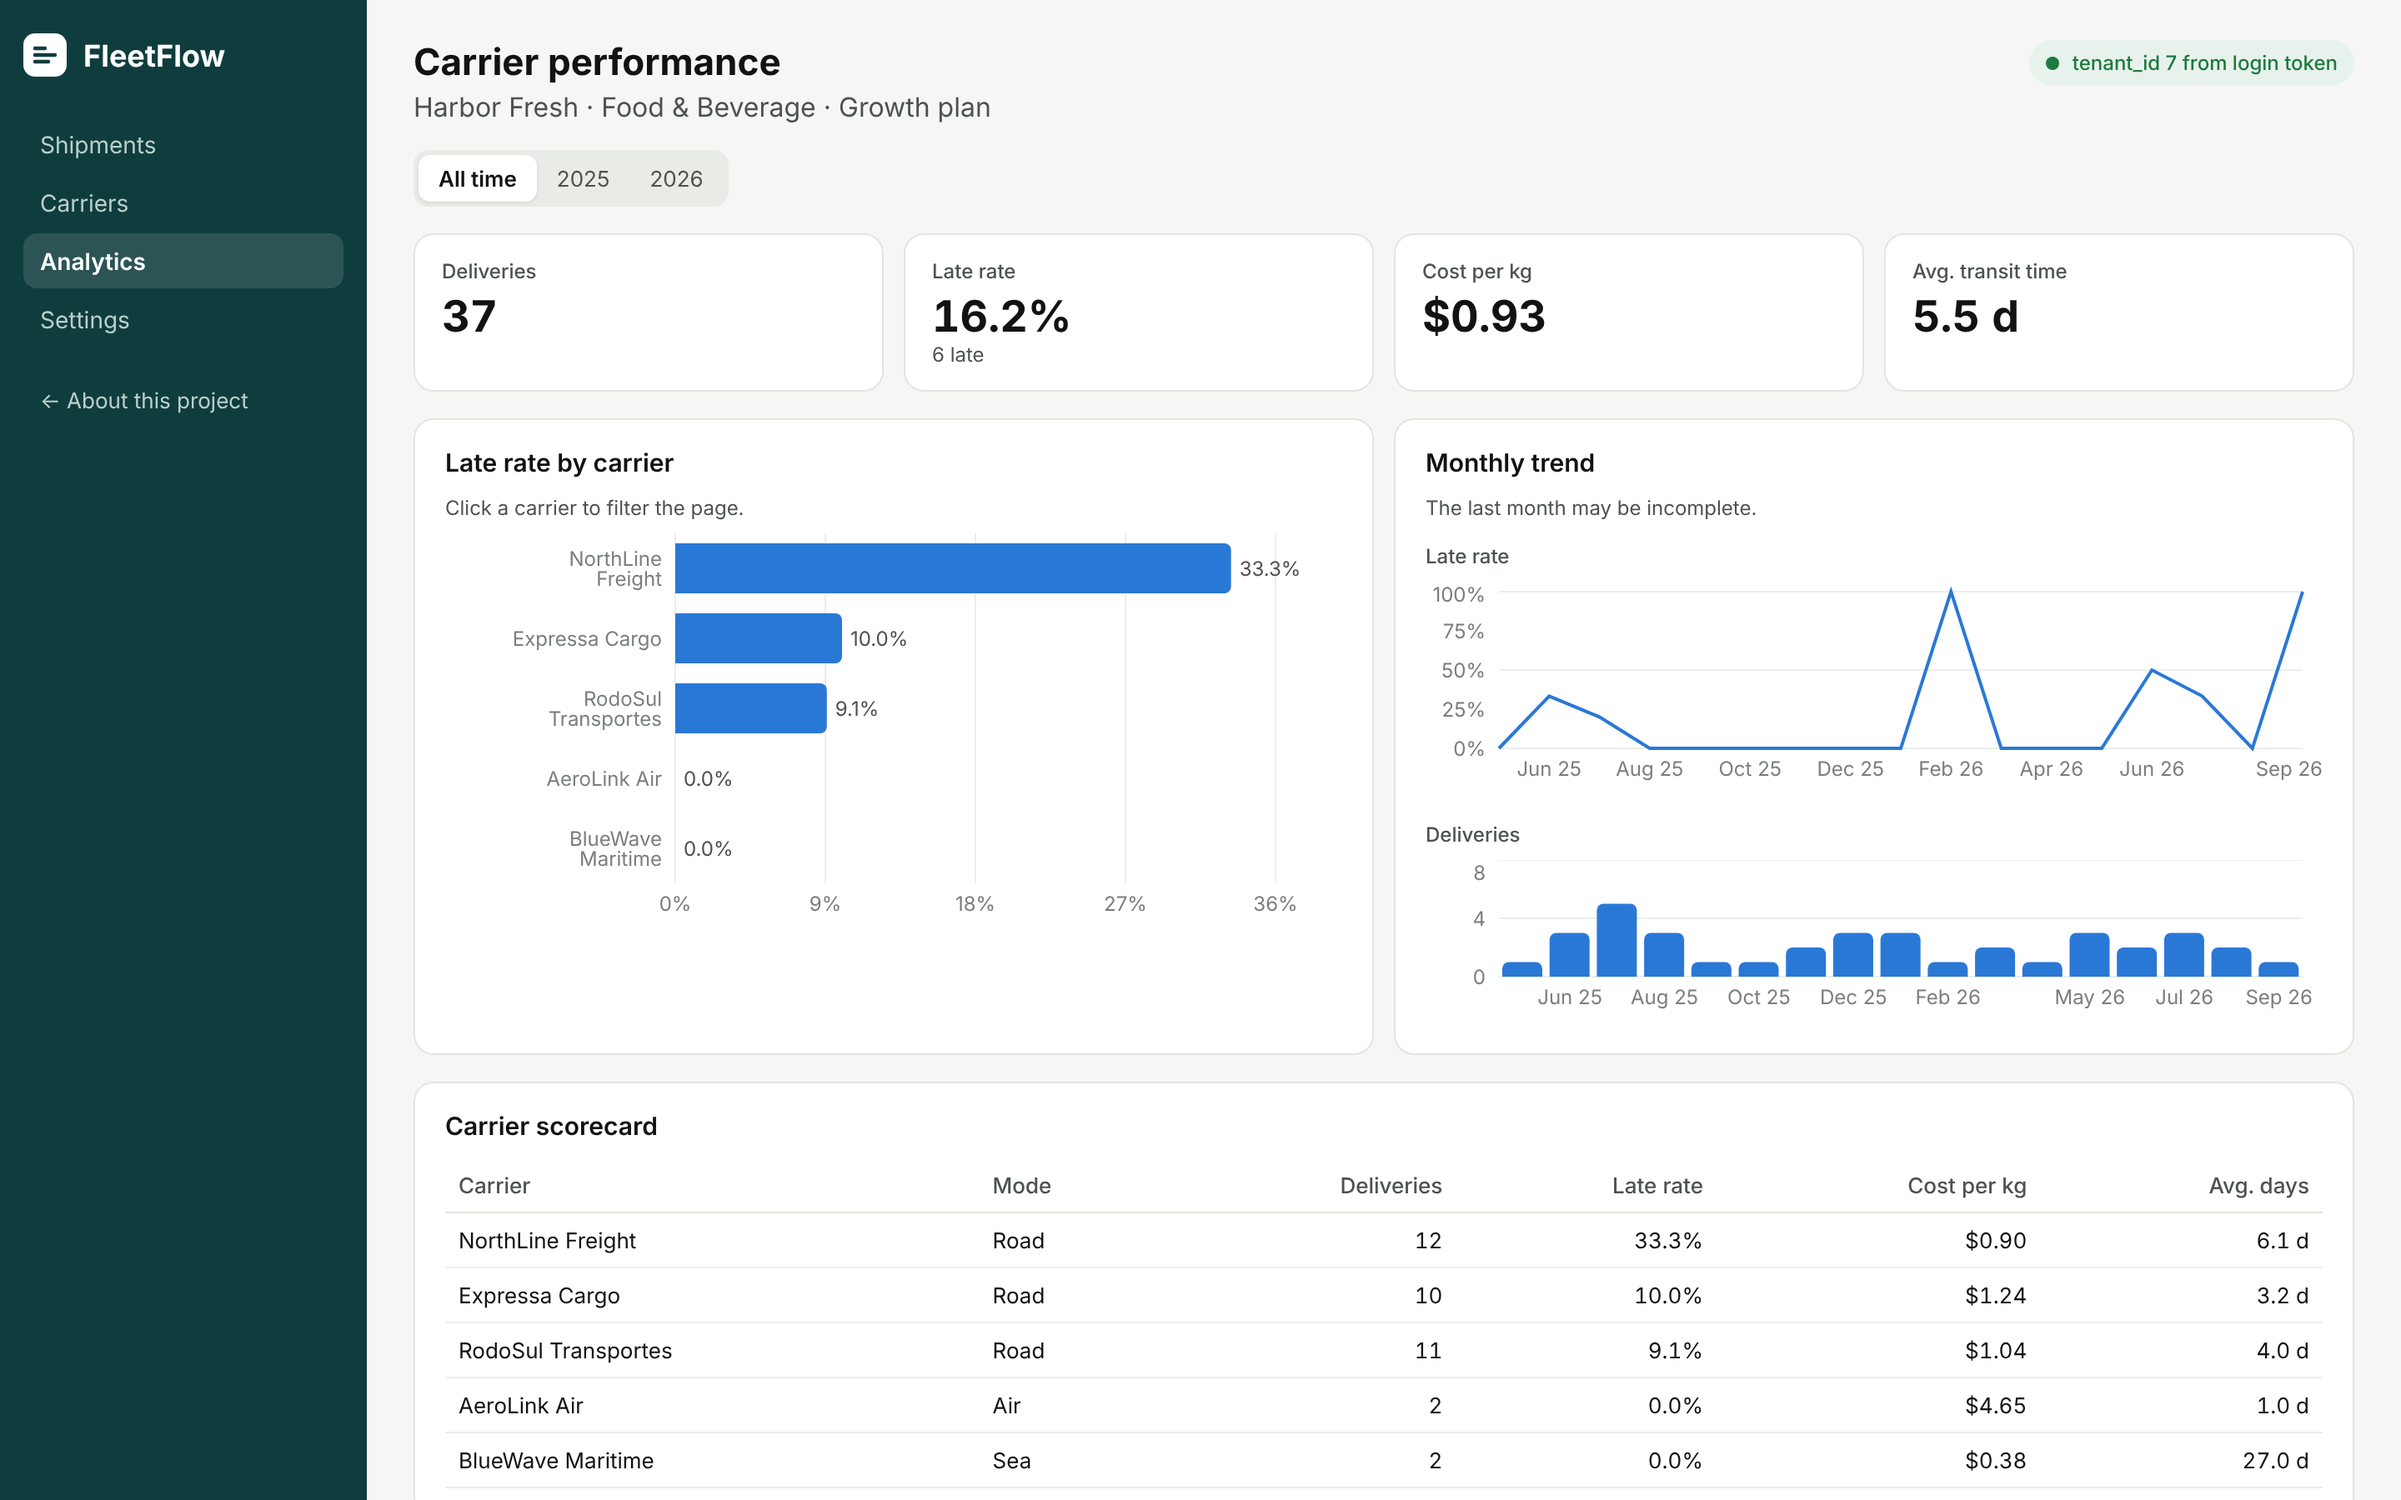
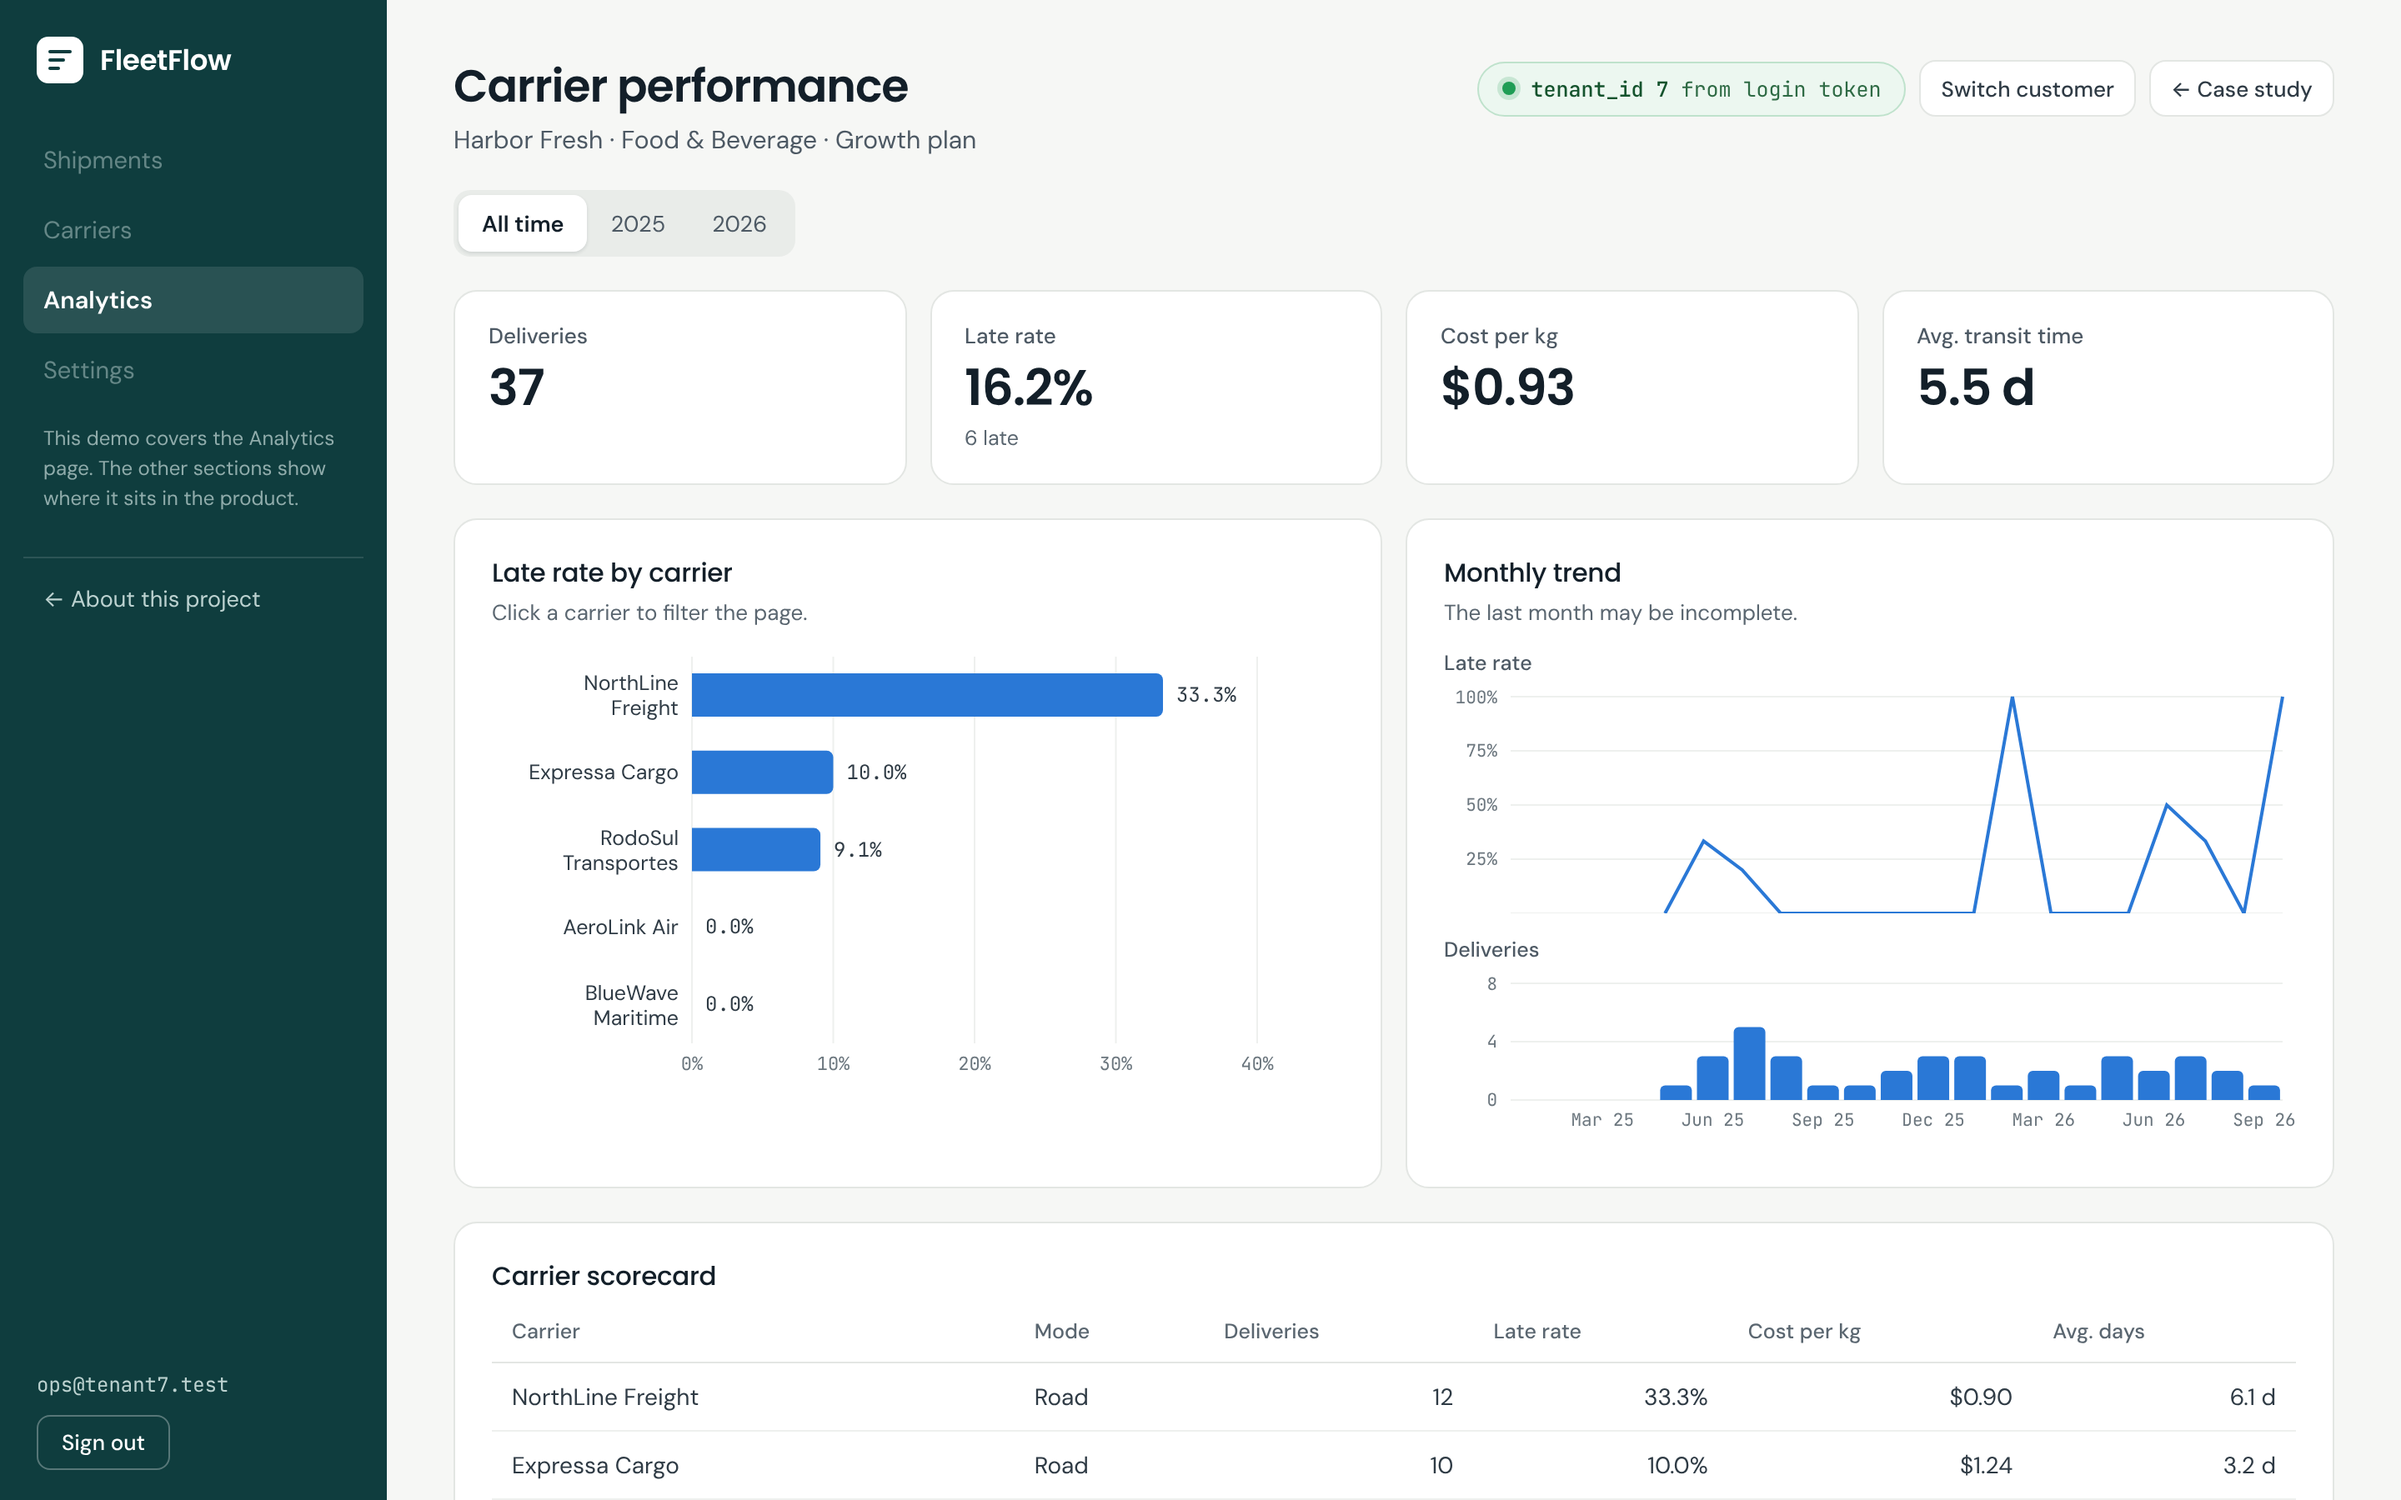
Make the case study self-contained
Remove the success-criteria scoreboard, the deferred executive dashboard
criterion and the roadmap section, so the page presents the PoC as a
finished piece. Refresh the hero screenshots with the new dashboard design.

Claude-Session: https://claude.ai/code/session_01Nik49F6jDDU4GLT7pApr7H

diff --git a/src/landing/Landing.jsx b/src/landing/Landing.jsx
@@ -1,4 +1,4 @@
-import { ai, carriers, criteria, decisions, links, next, pains, sisense, steps, why } from './content.js'
+import { ai, carriers, criteria, decisions, links, pains, sisense, steps, why } from './content.js'
 import './landing.css'
 
 const BAR_MAX = 45
@@ -70,7 +70,6 @@ export default function Landing() {
             <div><dt>tenants</dt><dd>40</dd></div>
             <div><dt>shipments</dt><dd>1,558</dd></div>
             <div><dt>tables</dt><dd>6</dd></div>
-            <div><dt>success criteria met</dt><dd>4 <span>of 5</span></dd></div>
           </dl>
         </section>
 
@@ -107,14 +106,14 @@ export default function Landing() {
               <div className="lp-split lp-criteria-block">
                 <div className="lp-split-left">
                   <h3 className="lp-h3">PoC success criteria</h3>
-                  <p className="lp-mono-sub">Agreed before building · 4 of 5 met</p>
+                  <p className="lp-mono-sub">Agreed before building · all met</p>
                 </div>
                 <ul className="lp-split-right lp-criteria">
                   {criteria.map(c => (
                     <li key={c.t}>
-                      <span className={`lp-status ${c.done ? 'met' : ''}`}>
-                        <span aria-hidden="true">{c.done ? '✓' : '○'}</span>
-                        {c.done ? 'Met' : 'Next'}
+                      <span className="lp-status met">
+                        <span aria-hidden="true">✓</span>
+                        Met
                       </span>
                       <span>
                         <strong>{c.t}.</strong> <span className="lp-muted">{c.d}</span>
@@ -238,6 +237,7 @@ export default function Landing() {
         <Section
           id="sisense"
           eyebrow="08 — Translation"
+          last
           title="How this maps to Sisense"
           wide={
             <div className="lp-table-card">
@@ -261,19 +261,6 @@ export default function Landing() {
           }
         />
 
-        <Section id="next" eyebrow="09 — Roadmap" title="What is next" last>
-          <ol className="lp-next">
-            {next.map(x => {
-              const [lead, rest] = splitLead(x)
-              return (
-                <li key={x}>
-                  <span className="lp-arrow" aria-hidden="true">→</span>
-                  <span><strong>{lead}</strong> <span className="lp-muted">{rest}</span></span>
-                </li>
-              )
-            })}
-          </ol>
-        </Section>
       </main>
 
       <footer className="lp-footer">
@@ -324,11 +311,4 @@ function Section({ id, eyebrow, title, aside, wide, children, last }) {
 function withCode(text) {
   const m = text.match(/^(fact_shipments|kpi_carrier_month)(.*)$/)
   return m ? <><code>{m[1]}</code>{m[2]}</> : text
-}
-
-function splitLead(text) {
-  const i = text.indexOf(': ')
-  if (i > -1) return [text.slice(0, i + 1), text.slice(i + 2)]
-  const j = text.search(/ (on the|instead of) /)
-  return j > -1 ? [text.slice(0, j), text.slice(j + 1)] : [text, '']
 }

diff --git a/src/landing/content.js b/src/landing/content.js
@@ -18,17 +18,16 @@ export const pains = [
 ]
 
 export const criteria = [
-  { t: 'Tenant isolation', d: 'The same dashboard shows each customer only its own rows, driven by the login.', done: true },
-  { t: 'Operational dashboard', d: 'Late rate, cost per kg, transit time and carrier ranking, with filters.', done: true },
-  { t: 'Embedded in the product', d: 'Running inside a React app styled as FleetFlow.', done: true },
-  { t: 'One actionable insight', d: 'Found in the data, not assumed upfront.', done: true },
-  { t: 'Executive dashboard', d: 'MRR, churn and adoption across all tenants, for FleetFlow leadership.', done: false },
+  { t: 'Tenant isolation', d: 'The same dashboard shows each customer only its own rows, driven by the login.' },
+  { t: 'Operational dashboard', d: 'Late rate, cost per kg, transit time and carrier ranking, with filters.' },
+  { t: 'Embedded in the product', d: 'Running inside a React app styled as FleetFlow.' },
+  { t: 'One actionable insight', d: 'Found in the data, not assumed upfront.' },
 ]
 
 export const steps = [
   {
     n: '01', t: 'Discovery',
-    did: 'Wrote a one-page discovery summary: the company, the pain, four personas and five success criteria, agreed before building anything.',
+    did: 'Wrote a one-page discovery summary: the company, the pain, four personas and four success criteria, agreed before building anything.',
     concept: 'Success criteria first. A PoC without them never ends.',
     call: 'I skipped the role-play and let AI invent the customer answers. I wanted my time on the technical part.',
   },
@@ -121,10 +120,4 @@ export const sisense = [
   { here: 'fact_shipments view, recalculated on every query', there: 'Live model, which queries the database directly (an ElastiCube would import the data instead)' },
   { here: 'kpi_carrier_month: additive measures', there: 'Measures that re-aggregate correctly under any filter' },
   { here: 'React app calling the database through Supabase', there: 'Compose SDK components embedded in the customer\'s React app' },
-]
-
-export const next = [
-  'Executive dashboard for FleetFlow: MRR, churn and adoption, with an admin role that sees every tenant.',
-  'Rebuild the dashboard with the Sisense Compose SDK on the same data.',
-  'Single sign-on from the host app instead of demo accounts.',
 ]

diff --git a/src/landing/landing.css b/src/landing/landing.css
@@ -192,11 +192,6 @@ html { scroll-behavior: smooth; -webkit-text-size-adjust: 100%; }
 .lp-table-card th:last-child { border-left: 1px solid var(--line); }
 .lp-table-card tbody tr + tr td { border-top: 1px solid var(--line); }
 
-/* Next */
-.lp-next { list-style: none; padding: 0; border-top: 1px solid var(--line-strong); }
-.lp-next li { display: flex; gap: 14px; padding: 20px 0; border-bottom: 1px solid var(--line); line-height: 1.55; }
-.lp-arrow { color: var(--blue); font-family: var(--mono); flex: none; }
-
 /* Footer */
 .lp-footer { background: var(--navy); color: var(--bg); padding: clamp(56px, 8vw, 96px) 0 40px; }
 .lp-footer-top { display: flex; flex-wrap: wrap; justify-content: space-between; align-items: flex-end; gap: 24px; }
